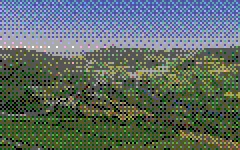
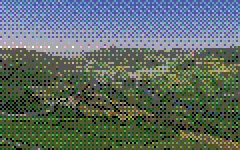
docs: one changelog entry for the rebuilt Countryside; refresh its thumbnail

diff --git a/changes/1082-countryside-land-model.md b/changes/1082-countryside-land-model.md
@@ -3,8 +3,4 @@ section: Changed
 issue: 1082
 ---
 
-The landing concept lab's Countryside is rebuilt on a shared terrain map: hills carved by running water, a river lying level in the bed it cuts and widening downstream, a village, hamlets, farms and a modelled castle where people would build, and roads between them over one stone bridge, seen from a hill at the valley's corner under the shared sky, clouds and weather. The land shape (valley, coast, plateau or rolling hills), relief, erosion and a landscape seed reshape it.
-
-Every parcel of land now has one use, chosen by how well its ground suits each use: crops, woodland, pasture with its herd of cattle or sheep, wildflowers, lavender or sunflowers. A single land-use mix sets their shares, each part switched on or off and then tuned, so the land runs from no woodland to entirely forest; raising one share converts only the parcels best suited to it. The village, hamlets, farms, castle, roads, farm tracks and river are switches with amounts in the same way, and a growing village adds cottages along its roads without moving any.
-
-The farming season (summer, harvest with round bales, autumn woods on the turn with evergreen pines), village lights, chimney smoke, verges at the hedges' foot, the dusk starling murmuration, a chalk M cut into a hillside facing the view, snow trodden by walkers and carts, and wind ripples on the river are all available on the new map. The separate Valley prototype is folded into the Countryside; earlier Countryside setups still replay exactly at the build their presets were tuned on.
+The landing concept lab's Countryside is rebuilt on a shared terrain map: hills carved by running water, a river lying level in the bed it cuts, a village, hamlets, farms and a modelled castle where people would build, and roads between them over one stone bridge, reshaped by land shape, relief, erosion and a landscape seed. Every parcel of land now has one use chosen by how well its ground suits it (crops, woodland, pasture with its herd, wildflowers, lavender or sunflowers), set by one land-use mix whose parts are switched on and then tuned, from no woodland to entirely forest; raising a share converts only the parcels best suited to it, and a growing village adds cottages along its roads without moving any. The farming season with harvest bales and autumn woods, village lights, chimney smoke, verges, the dusk murmuration, a chalk M, snow trodden by walkers and carts, and river wind ripples carry over to the new map. The separate Valley prototype is folded in; earlier Countryside setups still replay exactly at the build their presets were tuned on.
